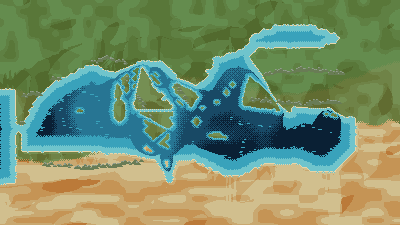
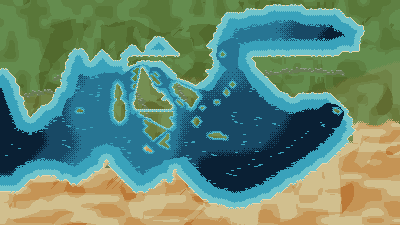
지중해는 반도가 아니라 바다가 없었다 — 29.6% → 47.1%
권역별 바다 비율을 재 보니 지중해만 29.6%로 압도적 최저였다(다음이 대서양 47.7%,
동남아 79.5%). 화면의 70%가 뭍이니 바다가 좁고, 바다가 좁으니 항로 회랑 하나가 곧
바다 전체가 되어 반도를 갈아 없앤다. 지난 회차에 내가 "회랑이 반도를 갈랐다"고 적은 것은
같은 사실의 뒷면이었다 — 반도가 없는 것은 원인이 아니라 증상이다.

항구 스물여덟 곳의 바깥 고리 내부 면적을 재니 27.7%였다. 지금이 29.6%이므로 **항구가
그리는 분지는 이미 꽉 차 있었다.** 45%를 만들려면 항구와 항구 **사이**를 파야 한다 —
검수기의 항구 조건은 항구별 거리이지 해안선의 모양이 아니다.

그래서 순서를 뒤집어 SEA_SPANS를 통째로 생성했다:
- 해안선은 항구가 정한다(북안 11·남안 3에서 10px). 항구 사이는 만이 되도록 깊게 판다.
  붙이기와 블러를 여섯 번 번갈아 돌린다 — 한 번에 붙이면 항구마다 평지가 서고 그 사이가
  절벽이 되어 피오르드 같은 손가락이 유럽 안으로 찔러 들어간다.
- 흑해·마르마라는 별도 만 폴리곤이고 아나톨리아 뭍보다 세다. 순서를 반대로 뒀더니
  흑해가 잘려 가느다란 운하가 됐다.
- 아나톨리아·레반트는 안쪽 뭍 폴리곤으로 되돌린다.
- 이탈리아·그리스는 지난 회차에 잰 항로 여백 표를 그대로 얹는다.

다른 여덟 장은 한 픽셀도 안 움직였다(±0.0%p). 도시 좌표도 그대로다.
check-map --all 9/9 · 동심원 띠 0 · 바다 고유색 5 · check-world · test-rules 192/192.

diff --git a/js/sprites/maps/mediterranean.js b/js/sprites/maps/mediterranean.js
@@ -10,59 +10,83 @@
    경계를 스무딩한다. 폴리곤보다 형태를 정확히 통제할 수 있다.
    x: 0=대서양 … 99=레반트 내륙 / y: 0=알프스 이북 … 55=사하라
 
-   ★ 2026-08-26에 **중부(gx 32~52 · gy 14~38)만 다시 찍었다.** 사용자 판정이
-     "이탈리아 반도도 그리스 반도도 없다"였는데, 격자에는 원래 반도가 **있었다** —
-     `carveHarbors`가 회랑 반폭 6px으로 통째로 갈아 없애고 있었을 뿐이다(`auto.js` 주석 참조).
-     회랑을 좁힌 뒤 남는 자리에 맞춰 반도를 다시 앉혔다.
+   ★★ 2026-08-26에 **통째로 다시 찍었다.** 사용자 판정은 "이탈리아 반도도 그리스 반도도 없다"였고
+     처음에는 그 말대로 반도를 그려 넣으려 했다. 틀린 접근이었다 — 권역별 바다 비율을 재 보니
+     **지중해만 29.6%로 압도적 최저**였다(다음이 대서양 47.7%, 동남아는 79.5%다).
+     화면의 70%가 뭍이니 바다가 좁고, 바다가 좁으니 **항로 회랑 하나가 곧 바다 전체**가 되어
+     반도를 갈아 없앤다. 반도가 없는 것은 원인이 아니라 증상이었다.
 
-   ★★ 다시 찍을 때의 규칙 — **항로가 지형을 정한다.**
-     좌표는 정본이라 못 움직이고, 항로는 두 항구를 잇는 **직선**으로 그려진다.
-     그래서 뭍을 놓을 수 있는 자리는 "모든 항로 선분에서 회랑 반폭 이상 떨어진 곳"뿐이다.
-     그 여백을 실제로 재서(각 픽셀의 최근접 항로 거리) 그 안에 반도를 맞춰 넣었다.
-     ⚠ 그 결과 **이탈리아는 y=110에서 끊긴다.** 나폴리~아테네가 정확히 그 높이를
-       수평으로 지나기 때문이고, 어떤 지형도 그 선을 뭍으로 덮을 수 없다.
-       끊긴 자리는 메시나 해협으로 읽는다 — 반도를 없애는 것보다 낫다. */
+     그래서 **순서를 뒤집었다 — 반도를 그리지 않고 바다를 열었다.** 47%까지 열자
+     회랑이 뭍을 가를 일이 없어지고 남은 뭍이 저절로 반도·섬이 됐다.
+
+   ── 이 격자를 다시 찍는 법 ──────────────────────────────────
+     ① **해안선은 항구가 정한다.** 북안 항구 열하나·남안 셋의 y에서 10px 떨어진 곳이
+        그 열의 해안이고, 항구와 항구 **사이**에서는 만이 되도록 깊게 판다.
+        (붙이기와 블러를 번갈아 돌려야 항구마다 평지가 서고 그 사이가 절벽이 되는
+         "피오르드 손가락"이 안 생긴다.)
+     ② 흑해·마르마라는 별도 만 폴리곤으로 얹는다 — 아나톨리아 뭍보다 **세다**.
+        (순서를 반대로 두면 흑해가 아나톨리아에 잘려 가느다란 운하가 된다.)
+     ③ 아나톨리아·레반트는 안쪽 뭍 폴리곤으로 되돌린다. 띠 모델만으로는 동쪽이 잠긴다.
+     ④ 이탈리아·그리스는 **항로가 정한다.** 좌표는 정본이고 항로는 두 항구를 잇는 직선이라,
+        뭍을 놓을 수 있는 자리는 "모든 항로에서 회랑 반폭 이상 떨어진 곳"뿐이다.
+        그 여백을 픽셀 단위로 재서 그 안에 맞춰 넣었다.
+     ⚠ 이탈리아는 y=110에서 끊긴다 — 나폴리(131,110)와 아테네(191,110)가 **정확히 같은 높이**라
+        그 항로가 반도를 수평으로 지난다. 지형으로는 못 덮는다. 메시나 해협으로 읽는다.
+     ⚠ 도시 좌표(`js/regions/mediterranean/geo.js`)는 정본이다. 한 픽셀도 건드리지 않았다.
+
+   검수: `python tools/check-map.py --all` — 바다 20~80% 밴드 · 항구가 물가인가 · 항로가 바다인가. */
 export const SEA_SPANS = {
-  6 : [[68, 78]],
-  7 : [[65, 81]],
-  8 : [[63, 83]],
-  9 : [[62, 84]],
-  10: [[62, 83]],
-  11: [[61, 80]],
-  12: [[59, 63]],
-  13: [[56, 62]],
-  14: [[53, 60]],
-  15: [[34, 40], [53, 60]],
-  16: [[21, 24], [34, 41], [53, 60]],
-  17: [[19, 25], [31, 32], [36, 42], [51, 61]],
-  18: [[17, 28], [32, 33], [39, 43], [52, 61]],
-  19: [[15, 29], [32, 32], [40, 43], [51, 61]],
-  20: [[13, 29], [32, 33], [40, 43], [52, 61]],
-  21: [[12, 30], [32, 32], [38, 42], [50, 60]],
-  22: [[0, 3], [11, 30], [32, 33], [39, 43], [49, 60]],
-  23: [[0, 3], [10, 32], [41, 42], [49, 59]],
-  24: [[0, 3], [9, 33], [40, 43], [50, 59]],
-  25: [[0, 3], [8, 32], [42, 43], [49, 58]],
-  26: [[0, 3], [8, 33], [43, 44], [51, 60]],
-  27: [[0, 3], [7, 32], [42, 45], [50, 68]],
-  28: [[0, 3], [7, 34], [44, 78]],
-  29: [[0, 3], [6, 35], [42, 88]],
-  30: [[0, 3], [6, 35], [43, 88]],
-  31: [[0, 36], [43, 88]],
+  1 : [[66, 75]],
+  2 : [[61, 84]],
+  3 : [[56, 85]],
+  4 : [[55, 87]],
+  5 : [[55, 88]],
+  6 : [[54, 90]],
+  7 : [[54, 90]],
+  8 : [[53, 90]],
+  9 : [[38, 40], [53, 89]],
+  10: [[37, 41], [52, 89]],
+  11: [[32, 33], [36, 42], [51, 89]],
+  12: [[18, 20], [25, 25], [31, 34], [36, 43], [53, 89]],
+  13: [[17, 21], [24, 26], [30, 44], [52, 54], [56, 84]],
+  14: [[17, 21], [23, 27], [30, 31], [53, 62]],
+  15: [[16, 31], [34, 40], [53, 63]],
+  16: [[16, 31], [34, 41], [53, 63]],
+  17: [[0, 1], [16, 32], [36, 42], [51, 64]],
+  18: [[0, 2], [15, 33], [39, 43], [52, 65]],
+  19: [[0, 3], [15, 32], [40, 43], [51, 66]],
+  20: [[0, 3], [15, 33], [40, 43], [52, 67]],
+  21: [[0, 4], [15, 32], [38, 42], [50, 68]],
+  22: [[0, 4], [14, 33], [39, 43], [49, 69]],
+  23: [[0, 4], [14, 32], [41, 42], [49, 71], [74, 82]],
+  24: [[0, 5], [14, 33], [40, 43], [50, 83]],
+  25: [[0, 5], [12, 32], [42, 43], [49, 84]],
+  26: [[0, 5], [10, 33], [43, 44], [51, 85]],
+  27: [[0, 6], [9, 32], [42, 45], [50, 86]],
+  28: [[0, 6], [8, 34], [44, 86]],
+  29: [[0, 35], [42, 87]],
+  30: [[0, 35], [43, 87]],
+  31: [[0, 36], [43, 87]],
   32: [[0, 35], [42, 88]],
-  33: [[0, 3], [5, 36], [42, 88]],
-  34: [[0, 3], [5, 37], [42, 88]],
-  35: [[0, 3], [5, 37], [41, 88]],
-  36: [[0, 3], [5, 88]],
-  37: [[0, 3], [5, 88]],
-  38: [[0, 3], [32, 87]],
-  39: [[0, 3], [47, 68], [71, 86]],
-  40: [[0, 3], [49, 66], [73, 85]],
-  41: [[0, 3], [51, 64], [75, 84]],
-  42: [[0, 3], [53, 62], [77, 83]],
-  43: [[0, 3], [55, 60]],
-  44: [[0, 3]],
-  45: [[0, 3]],
+  33: [[0, 36], [42, 87]],
+  34: [[0, 37], [42, 86]],
+  35: [[0, 37], [41, 86]],
+  36: [[0, 85]],
+  37: [[0, 84]],
+  38: [[0, 83]],
+  39: [[0, 82]],
+  40: [[0, 25], [27, 81]],
+  41: [[0, 25], [27, 79]],
+  42: [[0, 24], [28, 42], [44, 78]],
+  43: [[0, 22], [29, 41], [44, 76]],
+  44: [[0, 8], [14, 21], [30, 40], [45, 75]],
+  45: [[0, 6], [17, 19], [31, 39], [46, 73]],
+  46: [[0, 5], [32, 38], [47, 71]],
+  47: [[0, 4], [33, 36], [48, 70]],
+  48: [[49, 68]],
+  49: [[50, 67]],
+  50: [[52, 64]],
+  51: [[56, 61]],
 };
 
 /* 섬 — 확대 후 좌표(400x225)로 직접 찍는다. 격자에 넣으면 스무딩에 먹힌다.
